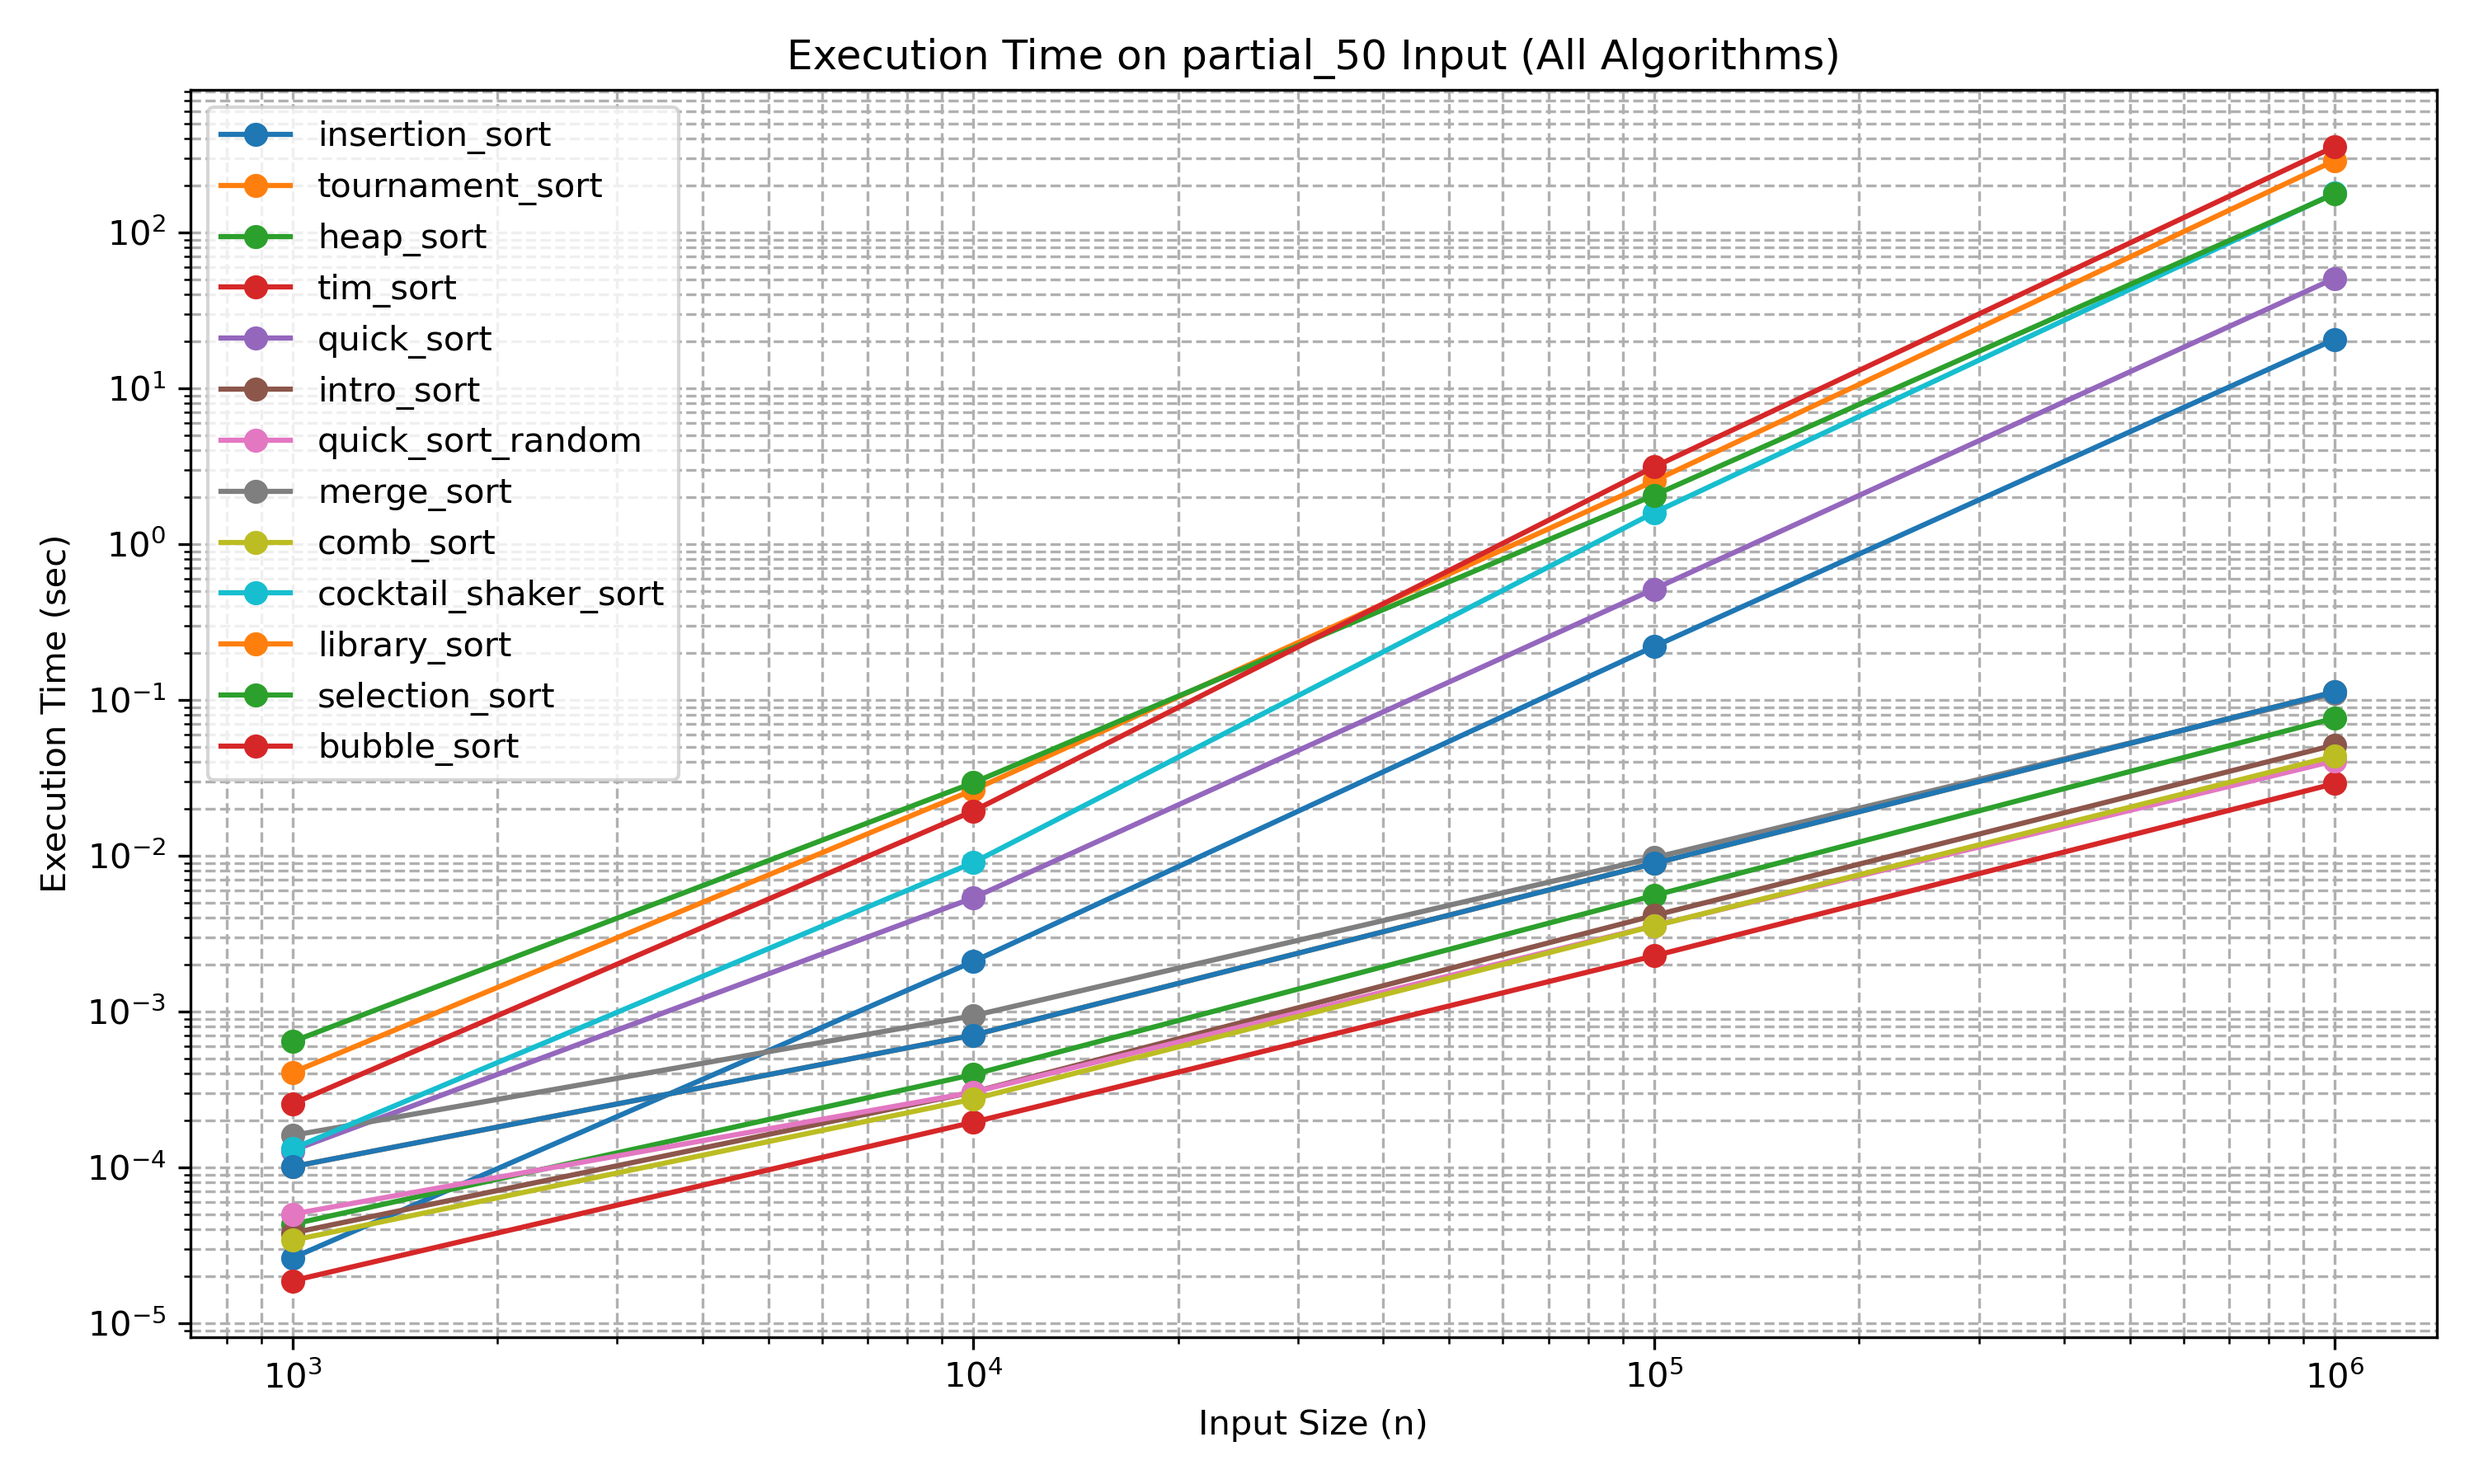
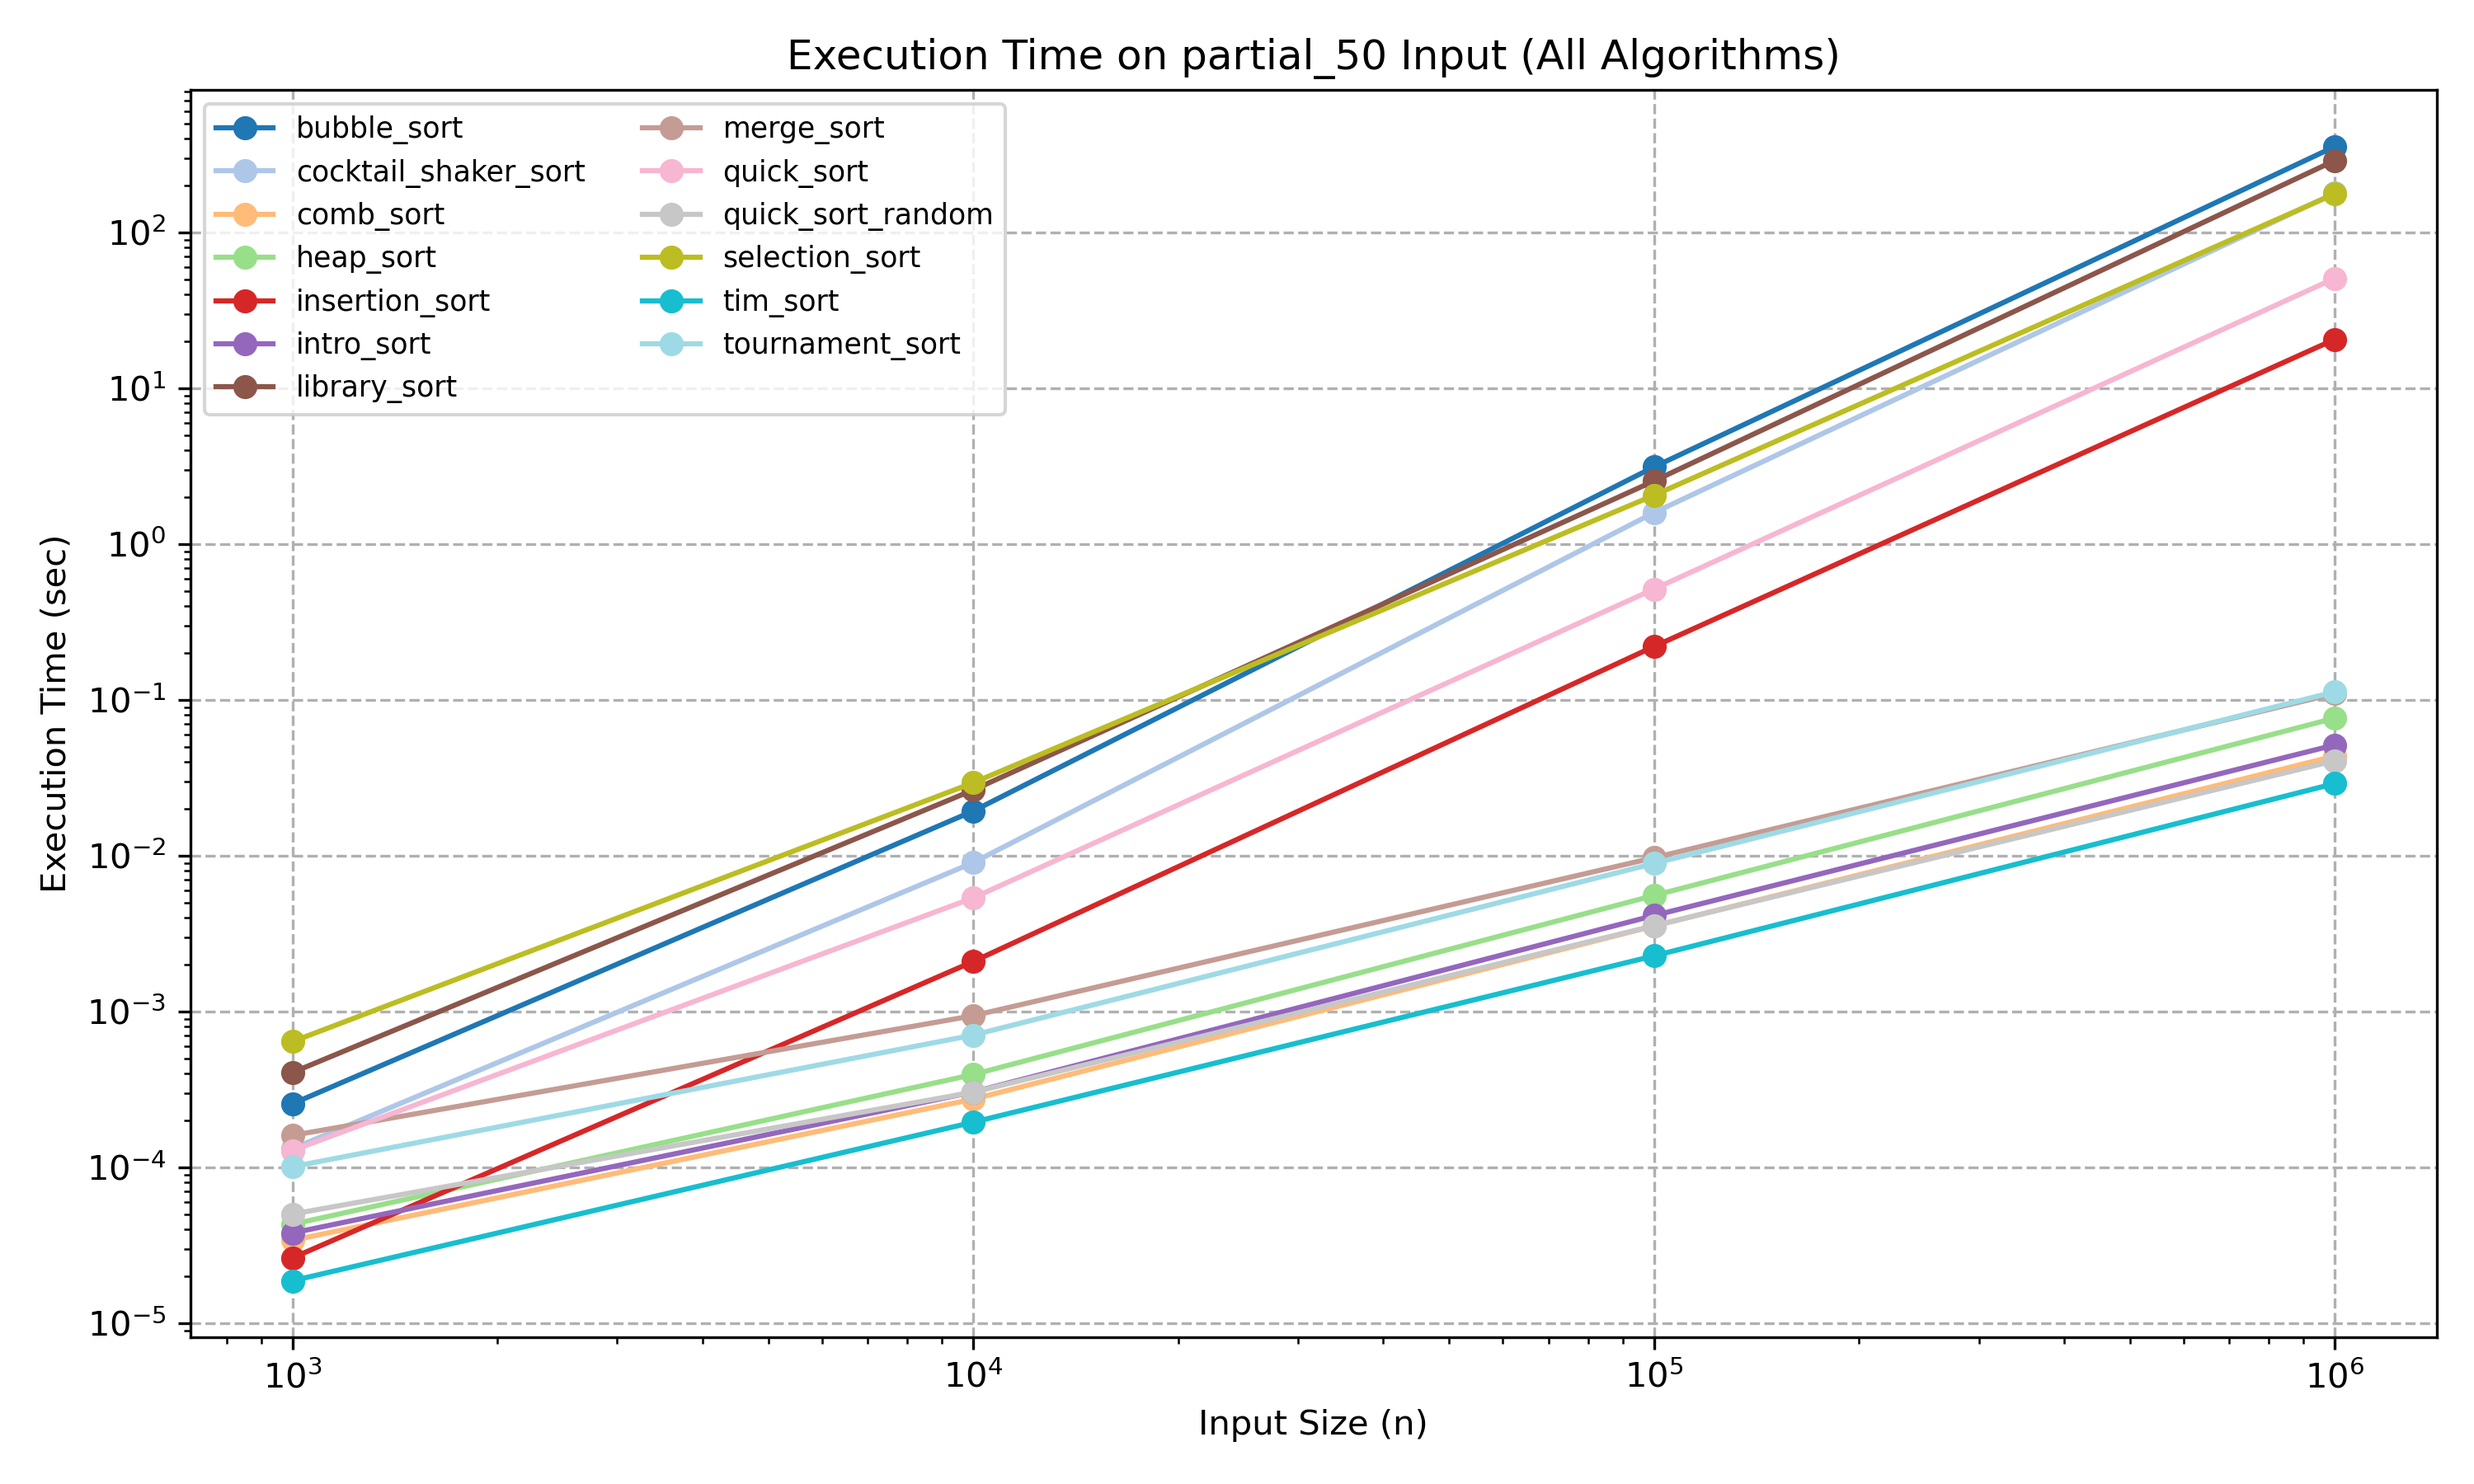
change graph color

Changed region(s): [[0.062, 0.0622, 0.992, 0.8711]]

diff --git a/test_algo/results/_compare_graph.py b/test_algo/results/_compare_graph.py
@@ -1,62 +1,72 @@
+import matplotlib.pyplot as plt
+import matplotlib.cm as cm
 import csv
 import re
-import matplotlib.pyplot as plt
 from collections import defaultdict
 from pathlib import Path
 
-def load_all_results_from_folder(folder_path):
-    results = defaultdict(dict)
-    folder = Path(folder_path)
-    csv_files = folder.glob("*.csv")
+# 설정
+combined_csv = Path("csv/__combined_results.csv")
+compare_path = Path("compare")
+compare_path.mkdir(parents=True, exist_ok=True)
 
-    for csv_file in csv_files:
-        algo_name = csv_file.stem
-        with open(csv_file, newline='') as f:
-            reader = csv.DictReader(f)
-            for row in reader:
-                fname = row["input_file"]
-                try:
-                    time = float(row["time_sec"])
-                    acc = float(row["accuracy"])
-                    results[algo_name][fname] = (time, acc)
-                except ValueError:
-                    continue
+# 데이터 로딩
+def load_combined_results(csv_path):
+    results = defaultdict(dict)
+    with open(csv_path, newline='') as f:
+        reader = csv.DictReader(f)
+        for row in reader:
+            algo_name = row["algo_name"]
+            fname = row["input_file"]
+            try:
+                time = float(row["time_sec"])
+                acc = float(row["accuracy"])
+                results[algo_name][fname] = (time, acc)
+            except ValueError:
+                continue
     return results
 
-def plot_random_input_comparison(results, input):
+# 그래프 그리기
+def plot_comparison(results, input_category):
     plt.figure(figsize=(10, 6))
-    
-    for algo_name, filedata in results.items():
+    algorithms = list(results.keys())
+    color_map = plt.get_cmap("tab20", len(algorithms))
+
+    for idx, (algo_name, filedata) in enumerate(results.items()):
         series = []
         for filename, (time_sec, _) in filedata.items():
-            match = re.match(r"n0*([0-9]+)_" + re.escape(input) + r"\.txt", filename)
+            match = re.match(r"n0*([0-9]+)_" + re.escape(input_category) + r"\.txt", filename)
             if not match:
                 continue
             n = int(match.group(1))
             series.append((n, time_sec))
-        
+
         if not series:
             continue
 
         series.sort()
         x = [n for n, _ in series]
         y = [t for _, t in series]
-        plt.plot(x, y, marker='o', label=algo_name)
+        plt.plot(x, y, marker='o', label=algo_name, color=color_map(idx))
 
     plt.xlabel("Input Size (n)")
     plt.ylabel("Execution Time (sec)")
-    plt.title(f"Execution Time on {input} Input (All Algorithms)")
+    plt.title(f"Execution Time on {input_category} Input (All Algorithms)")
     plt.xscale("log")
     plt.yscale("log")
-    plt.grid(True, which="both", linestyle="--")
-    plt.legend()
+    plt.grid(True, which="major", linestyle="--")  # only major ticks
+    plt.legend(loc="upper left", fontsize="small", ncol=2)
     plt.tight_layout()
-    plt.savefig(f"compare/{input}.png", dpi=300)
-    plt.close()
-    print(f"✅ Saved to compare/{input}.png")
 
+    output_file = compare_path / f"{input_category}.png"
+    plt.savefig(output_file, dpi=300)
+    plt.close()
+    return output_file
+
+# 실행
 if __name__ == "__main__":
-    results = load_all_results_from_folder("csv")
+    results = load_combined_results(combined_csv)
     CATEGORIES = ["sorted_asc", "sorted_desc", "random", "partial_50", "partial_80"]
-    for input in CATEGORIES:
-        plot_random_input_comparison(results, input)
+    for cat in CATEGORIES:
+        out = plot_comparison(results, cat)
+        print(f"✅ Saved: {out}")
